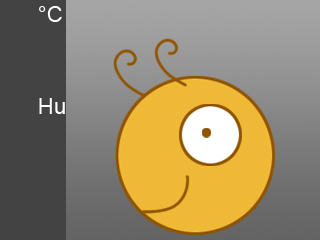
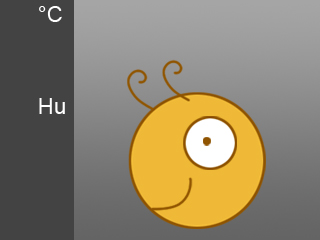
Display formatted messages

Changed region(s): [[0.3438, 0.1458, 0.875, 0.9917], [0.1875, 0.0, 0.25, 1.0]]

diff --git a/Team 1/HiveSenseTeam1/HiveSenseDisplay/HiveSenseDisplay/Program.cs b/Team 1/HiveSenseTeam1/HiveSenseDisplay/HiveSenseDisplay/Program.cs
@@ -1,4 +1,5 @@
 using System;
+using math = System.Math;
 using System.Collections;
 using System.Threading;
 using Microsoft.SPOT;
@@ -18,21 +19,18 @@ namespace HiveSenseDisplay
 {
     public partial class Program
     {
-        public Gadgeteer.Modules.IngenuityMicro.RfPipe RfPipe;
-        public static Window mainWindow;
-        public int LeftMargin = 5;
-        public Text HiveTime;
+        private Gadgeteer.Modules.IngenuityMicro.RfPipe RfPipe;
+        private static Window mainWindow;
+        private int LeftMargin = 5;
+        private Text HiveTime;
+        private Text HiveTemp;
+        private Text HiveHumidity;
+        private Text HiveAlert;
+        private GT.Timer timer;
+        private string SensorMessage = string.Empty;
+        private Border Facepic;
 
-        public Text HiveTemp;
-        public Text HiveHumidity;
-        public Text HiveAlert;
-        public GT.Timer timer;
-        public string SensorMessage = string.Empty;
-        
-        public Border Facepic;
-
-
-        Bitmap BG;
+        private Bitmap BG;
 
         // This method is run when the mainboard is powered up or reset.   
         void ProgramStarted()
@@ -58,9 +56,6 @@ namespace HiveSenseDisplay
             SetupUI();
 
             RfPipe.DataReceived += new GTM.IngenuityMicro.RfPipe.RfPipeReceivedHandler(RfPipe_DataReceived);
-            //HappyButton.ButtonPressed += new GTM.LoveElectronics.Button.ButtonEventHandler(HappyButton_ButtonPressed);
-            //Mehbutton.ButtonPressed += new GTM.LoveElectronics.Button.ButtonEventHandler(Mehbutton_ButtonPressed);
-            SadButton.ButtonPressed += new GTM.GHIElectronics.Button.ButtonEventHandler(SadButton_ButtonPressed);
         }
 
         void RfPipe_DataReceived(string val)
@@ -70,42 +65,67 @@ namespace HiveSenseDisplay
             {
                 timer.Start();
             }
-
         }
-
-        void SadButton_ButtonPressed(GTM.GHIElectronics.Button sender, GTM.GHIElectronics.Button.ButtonState state)
-        {
-           
-            var BeeFace = Resources.GetBitmap(Resources.BitmapResources.SadBee);
-            Facepic.Background = new ImageBrush(BeeFace);
-            Facepic.Invalidate();
-        }
-
-        //void Mehbutton_ButtonPressed(GTM.LoveElectronics.Button sender, GTM.LoveElectronics.Button.ButtonState state)
-        //{
-        //    var BeeFace = Resources.GetBitmap(Resources.BitmapResources.UncdertainBee);
-        //    Facepic.Background = new ImageBrush(BeeFace);
-        //    Facepic.Invalidate();
-        //}
-
-        //void HappyButton_ButtonPressed(GTM.LoveElectronics.Button sender, GTM.LoveElectronics.Button.ButtonState state)
-        //{
-        //    var BeeFace = Resources.GetBitmap(Resources.BitmapResources.HappyBee);
-        //    Facepic.Background = new ImageBrush(BeeFace);
-        //    Facepic.Invalidate();
-        //}
 
         void timer_Tick(GT.Timer timer)
         {
-            HiveTemp.TextContent = SensorMessage;
-            HiveTime.Invalidate();
-         }
+            if (TryParseAndDisplayMessage("TempDegC", HiveTemp, true))
+            {
+                return;
+            }
+            if (TryParseAndDisplayMessage("HumidityPc", HiveHumidity, true))
+            {
+                return;
+            }
+            if (TryParseAndDisplayMessage("Time", HiveTime))
+            {
+                return;
+            }
 
+            if (TryParseAndDisplayMessage("Alert", HiveAlert))
+            {
+                var BeeFace = Resources.GetBitmap(Resources.BitmapResources.SadBee);
+                Facepic.Background = new ImageBrush(BeeFace);
+                Facepic.Invalidate();
+            }
+        }
+
+        private bool TryParseAndDisplayMessage(string identifier, Text textArea, bool numericValue = false)
+        {
+            string payload;
+            if (TryExtractPayloadFromSensorMessage(identifier, out payload))
+            {
+                var displayPayload = payload;
+
+                double numeric;
+                if (numericValue)
+                {
+                    double.TryParse(payload, out numeric);
+                    displayPayload = (math.Round(numeric * 100) / 100).ToString().Substring(0, 5);
+                }
+
+                textArea.TextContent = displayPayload;
+                textArea.Invalidate();
+                return true;
+            }
+            return false;
+        }
+
+        private bool TryExtractPayloadFromSensorMessage(string identifier, out string payload)
+        {
+            if (SensorMessage.Substring(0, identifier.Length) == identifier)
+            {
+                payload = SensorMessage.TrimStart(identifier.ToCharArray());
+                return true;
+            }
+            payload = string.Empty;
+            return false;
+        }
         void SetupUI()
         {
-            BG = Resources.GetBitmap(Resources.BitmapResources.UncdertainBee);
+            BG = Resources.GetBitmap(Resources.BitmapResources.UncertainBee);
 
-            var BeeFace = Resources.GetBitmap(Resources.BitmapResources.UncdertainBee);
+            var BeeFace = Resources.GetBitmap(Resources.BitmapResources.UncertainBee);
 
             // setup the display window
             mainWindow = display_T35.WPFWindow;
@@ -129,14 +149,20 @@ namespace HiveSenseDisplay
             Layout.Children.Add(Facepic);
 
             HiveTime = new Text("Time: 00:00:00");
-            HiveTime.ForeColor = Colors.Yellow;
+            HiveTime.ForeColor = Colors.White;
             HiveTime.Font = Resources.GetFont(Resources.FontResources.Calibri24);
             Layout.Children.Add(HiveTime);
             //Set the text position
             Canvas.SetLeft(HiveTime, 85);
             Canvas.SetTop(HiveTime, 2);
 
-
+            HiveAlert = new Text("Test");
+            HiveAlert.ForeColor = Colors.White;
+            HiveAlert.Font = Resources.GetFont(Resources.FontResources.NinaB);
+            Layout.Children.Add(HiveAlert);
+            //Set the text position
+            Canvas.SetLeft(HiveAlert, 85);
+            Canvas.SetTop(HiveAlert, 30);
 
             HiveTemp = new Text("00");
             HiveTemp.ForeColor = Colors.White;

diff --git a/Team 1/HiveSenseTeam1/HiveSenseDisplay/HiveSenseDisplay/Program.generated.cs b/Team 1/HiveSenseTeam1/HiveSenseDisplay/HiveSenseDisplay/Program.generated.cs
@@ -16,9 +16,7 @@ namespace HiveSenseDisplay
     public partial class Program : Gadgeteer.Program
     {
         // GTM.Module definitions
-        Gadgeteer.Modules.IngenuityMicro.RfPipe rfPipe;
         Gadgeteer.Modules.GHIElectronics.Display_T35 display_T35;
-        Gadgeteer.Modules.GHIElectronics.Button SadButton;
 
         public static void Main()
         {
@@ -34,12 +32,7 @@ namespace HiveSenseDisplay
         private void InitializeModules()
         {   
             // Initialize GTM.Modules and event handlers here.		
-            SadButton = new GTM.GHIElectronics.Button(4);
-		
-            display_T35 = new GTM.GHIElectronics.Display_T35(14, 13, 12, 10);
-		
-            rfPipe = new GTM.IngenuityMicro.RfPipe(11);
-
+            display_T35 = new GTM.GHIElectronics.Display_T35(14, 13, 12, 10);	
         }
     }
 }

diff --git a/Team 1/HiveSenseTeam1/HiveSenseDisplay/HiveSenseDisplay/Resources.Designer.cs b/Team 1/HiveSenseTeam1/HiveSenseDisplay/HiveSenseDisplay/Resources.Designer.cs
@@ -37,8 +37,8 @@ namespace HiveSenseDisplay
         internal enum BitmapResources : short
         {
             HappyBee = -32732,
-            UncdertainBee = -24473,
             SadBee = 11699,
+            UncertainBee = 24690,
         }
         [System.SerializableAttribute()]
         internal enum FontResources : short
